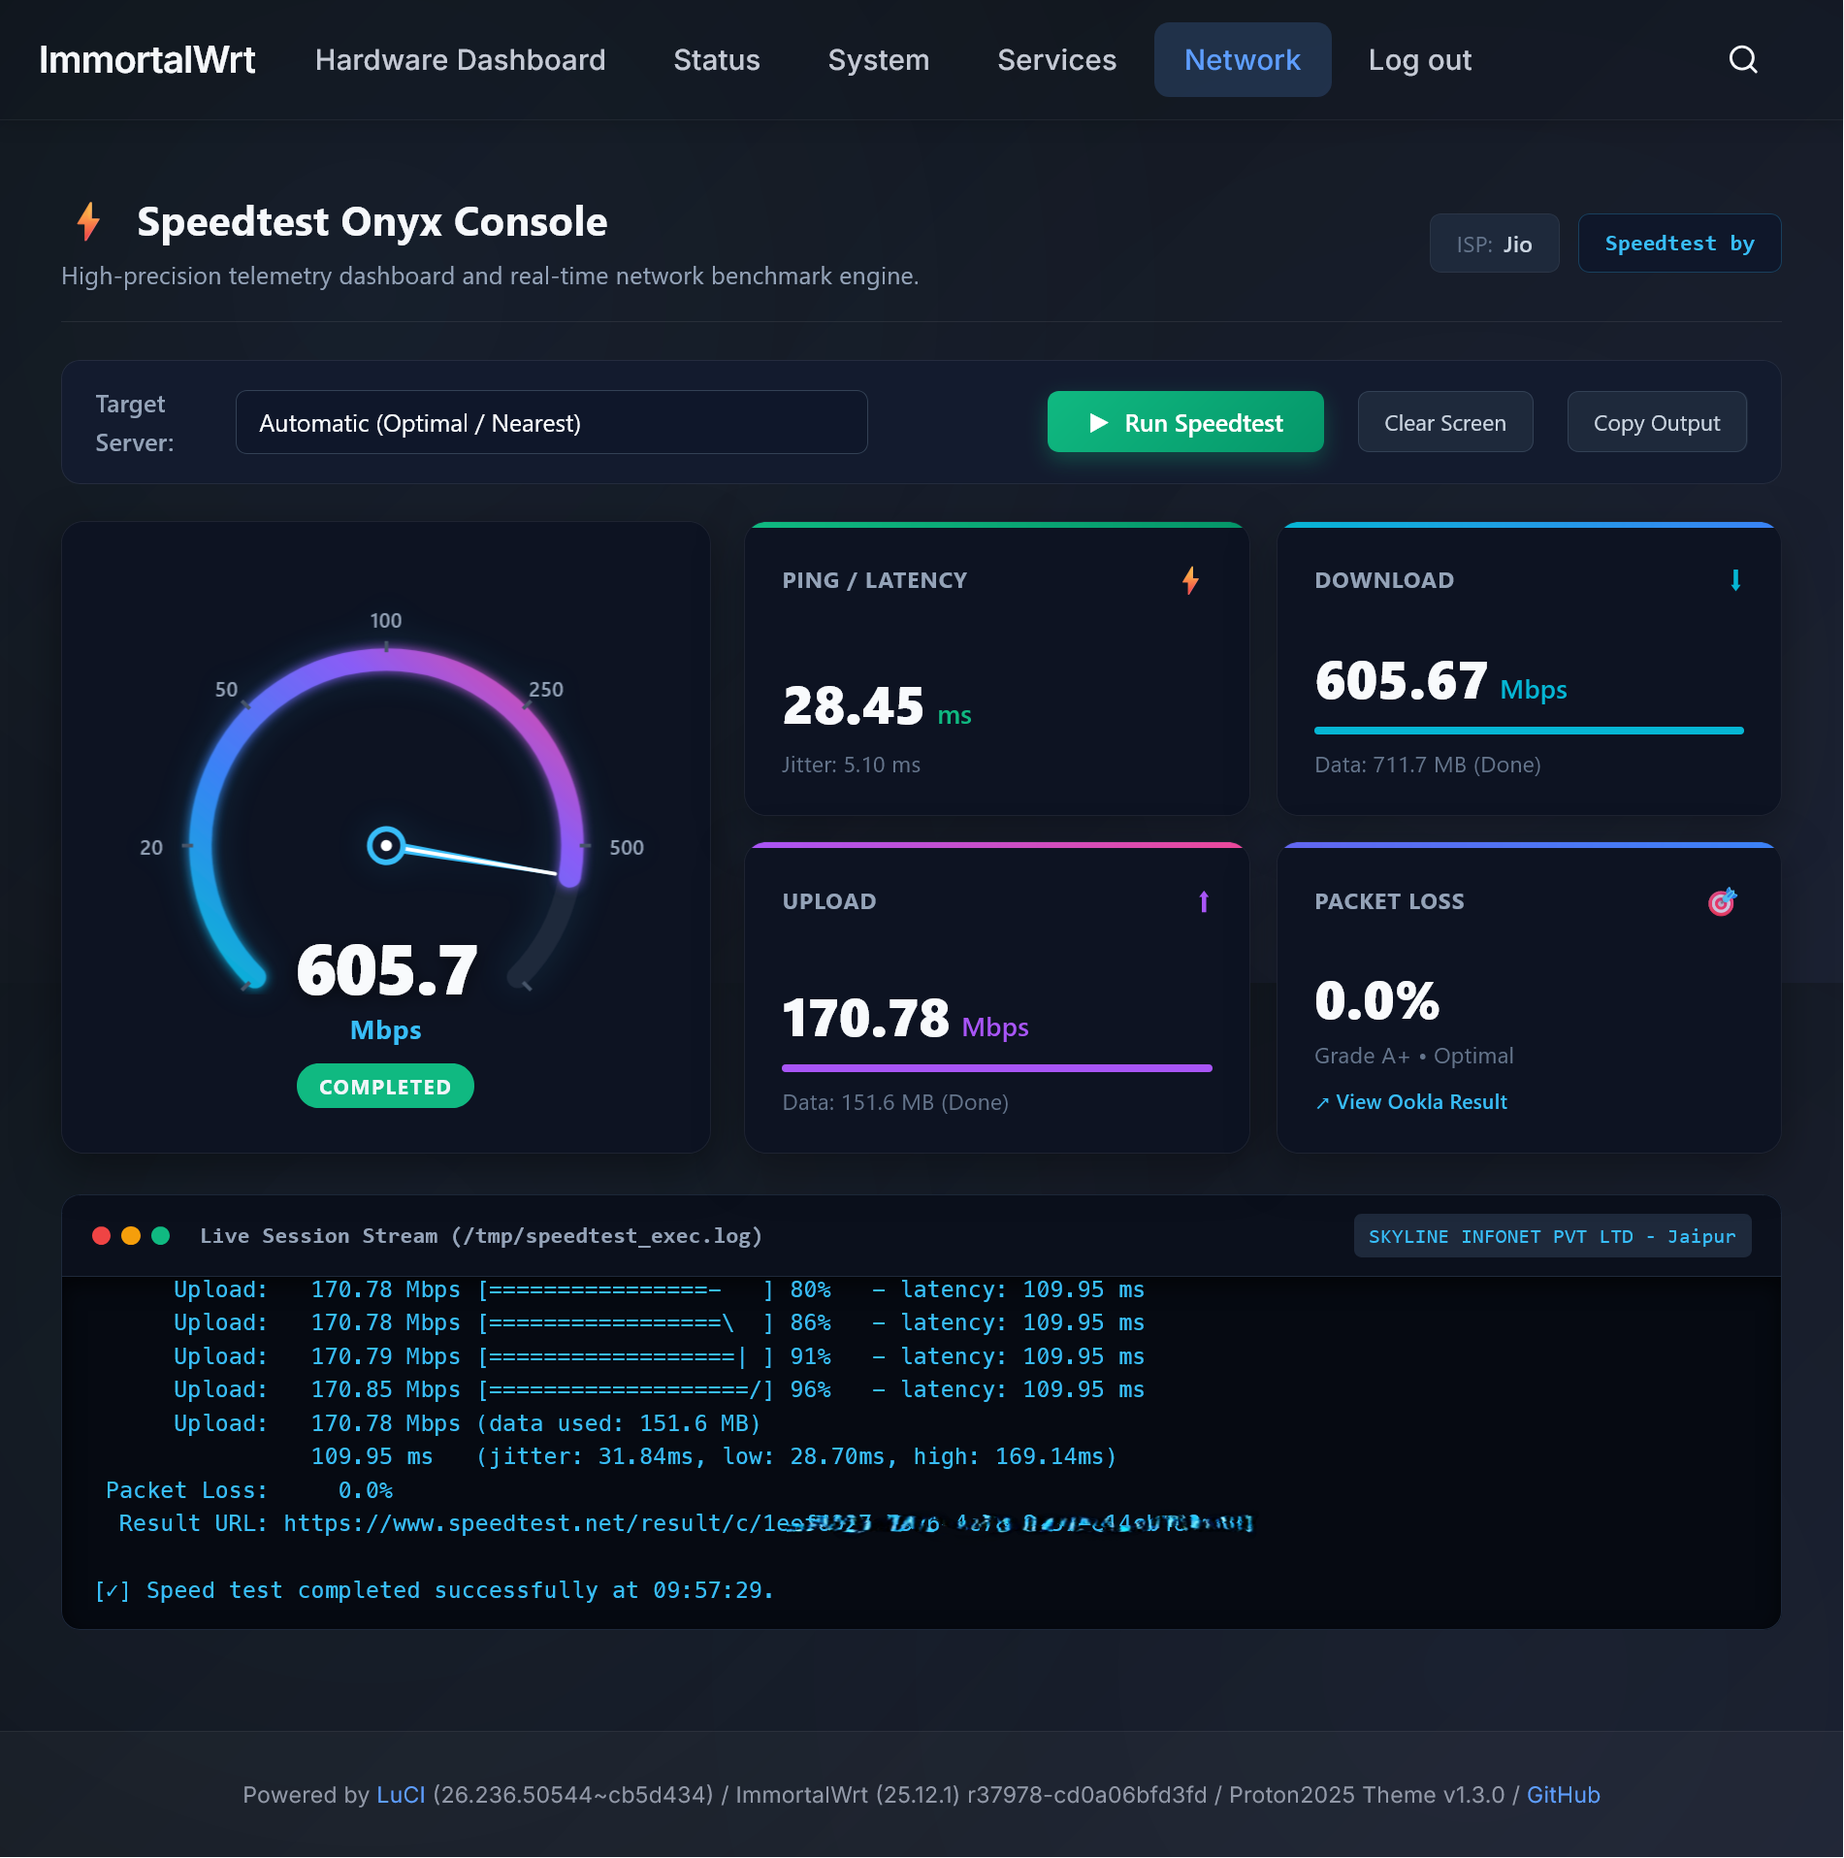
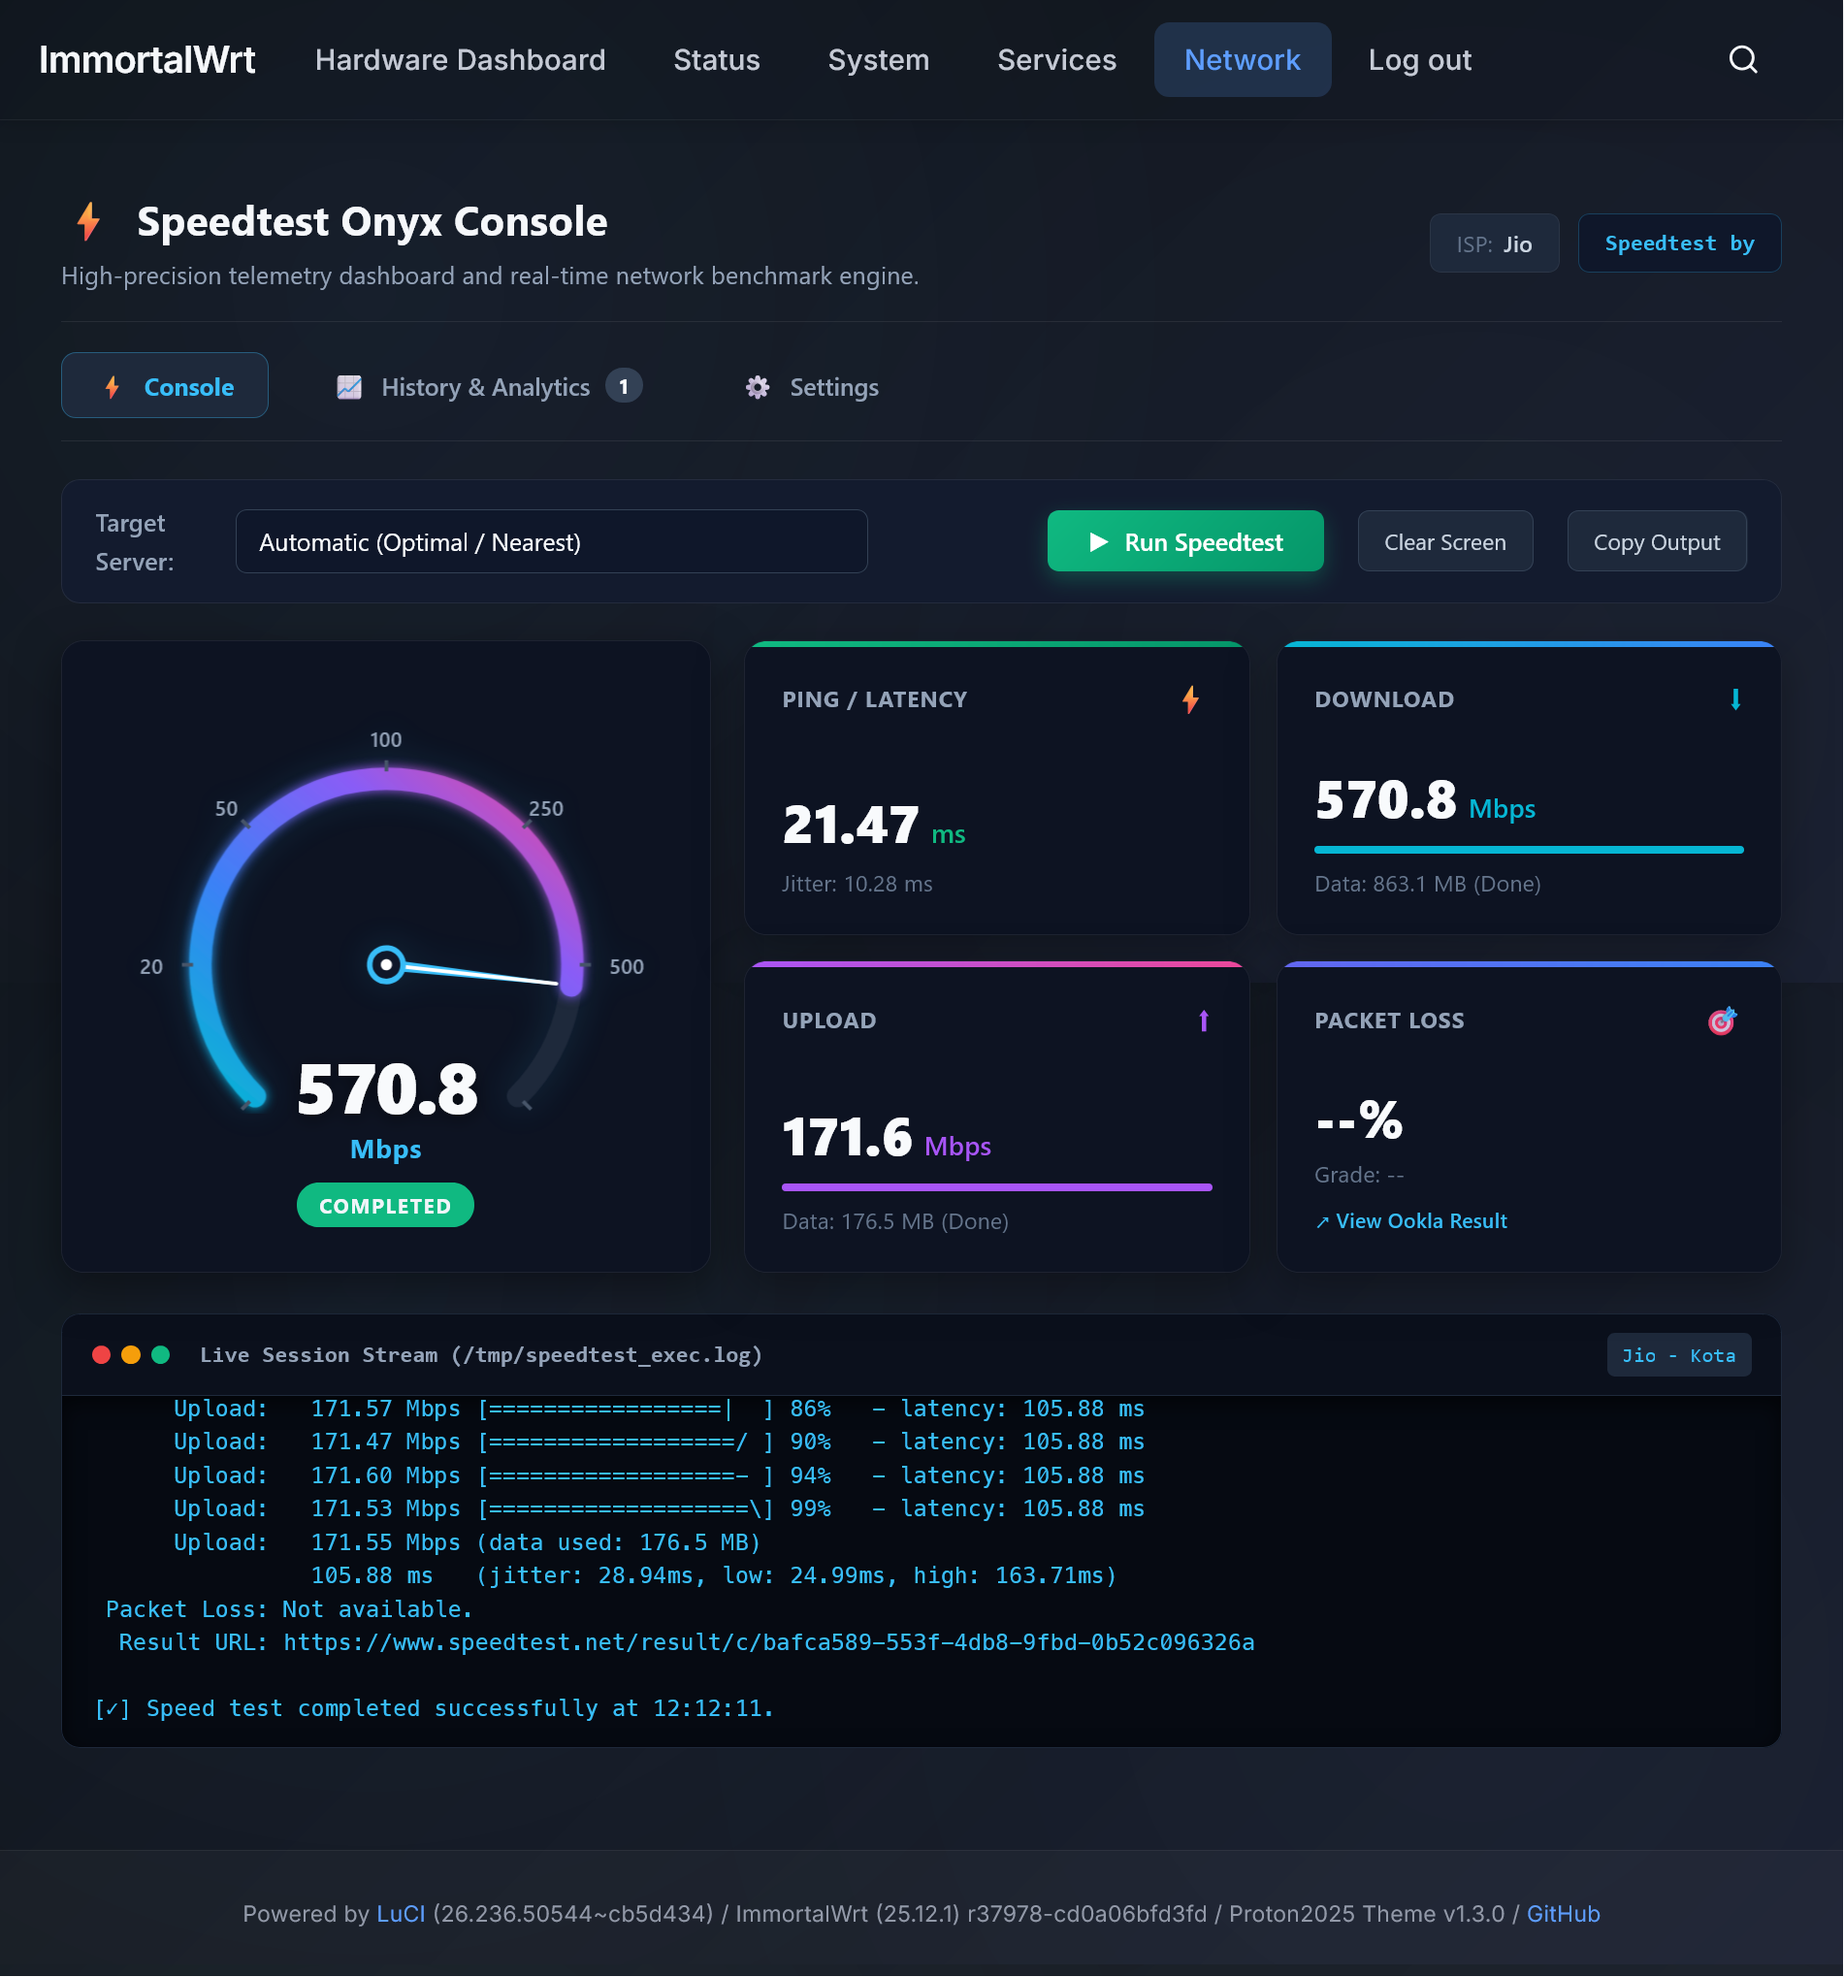
docs: update README with new v1.2-r1 screenshots and showcase 3-tab UI

diff --git a/README.md b/README.md
@@ -20,13 +20,18 @@ A modern, responsive LuCI web dashboard extension designed to run official **Spe
 
 | **Console Standby (Ready State)** | **Target Server Selection** |
 | :---: | :---: |
-| [![Console Standby](screenshot/initial_screen.png)](screenshot/initial_screen.png) | [![Target Server Selection](screenshot/Target_Server_selection.png)](screenshot/Target_Server_selection.png) |
-| *Signature speedometer gauge, detected ISP/IP & ready terminal* | *Automatic nearest server selection or pick from nearby Ookla hosts* |
+| [![Console Standby](screenshot/before_speedtest_initial_state.png)](screenshot/before_speedtest_initial_state.png) | [![Target Server Selection](screenshot/Target_Server_selection.png)](screenshot/Target_Server_selection.png) |
+| *3-Tab layout, signature speedometer gauge, detected ISP & ready terminal* | *Automatic optimal server discovery or pick from nearby Ookla hosts* |
 
-| **Active Benchmark & Full Telemetry (605+ Mbps)** |
+| **Active Benchmark & Full Telemetry (570+ Mbps)** | **Persistent History & Analytics** |
+| :---: | :---: |
+| [![Completed Benchmark](screenshot/after_speedtest.png)](screenshot/after_speedtest.png) | [![History & Analytics](screenshot/History_and_analytics.png)](screenshot/History_and_analytics.png) |
+| *High-speed bandwidth test, latency, jitter, packet loss & live streaming log* | *Peak DL/UL cards, comprehensive test log, direct Ookla links & CSV export* |
+
+| **Dedicated Settings View** |
 | :---: |
-| [![Completed Benchmark](screenshot/after_speedtest.png)](screenshot/after_speedtest.png) |
-| *Gauge needle deflection, sub-second progressive bandwidth bars, Grade A+ packet loss assessment, and live terminal streaming log* |
+| [![Settings View](screenshot/settings_page.png)](screenshot/settings_page.png) |
+| *Speed display units (Mbps, MB/s, Gbps), retention limit, default server lock & Cron scheduler* |
 
 ---
 
@@ -160,7 +165,7 @@ UCI options are stored in `/etc/config/speedtest`:
 | :--- | :--- | :--- | :--- |
 | `enabled` | boolean | `1` | Enable or disable the application |
 | `server_id` | string | `""` | Target Ookla Server ID (`""` = auto best) |
-| `unit` | string | `mbps` | Display units (`mbps` or `mbyte`) |
+| `unit` | string | `mbps` | Display units (`mbps`, `mbyte`, or `gbps`) |
 | `history_max`| integer| `50` | Maximum history records to retain |
 | `auto_test_enabled` | boolean | `0` | Enable automated periodic speed test |
 | `auto_test_cron` | string | `0 4 * * *` | Cron schedule for automated tests |
@@ -174,14 +179,22 @@ You can also run diagnostics directly over SSH:
 
 ```sh
 # Check engine status and architecture
+/usr/libexec/speedtest-action.sh check
 
 # Install or update Speedtest CLI engine
+/usr/libexec/speedtest-action.sh install
 
 # Trigger a speed test in background
 /usr/libexec/speedtest-action.sh start
 
 # Query live test status
 /usr/libexec/speedtest-action.sh status
+
+# Retrieve historical test records
+/usr/libexec/speedtest-action.sh history
+
+# Clear test history
+/usr/libexec/speedtest-action.sh clear_history
 
 # Cancel active speed test
 /usr/libexec/speedtest-action.sh stop
